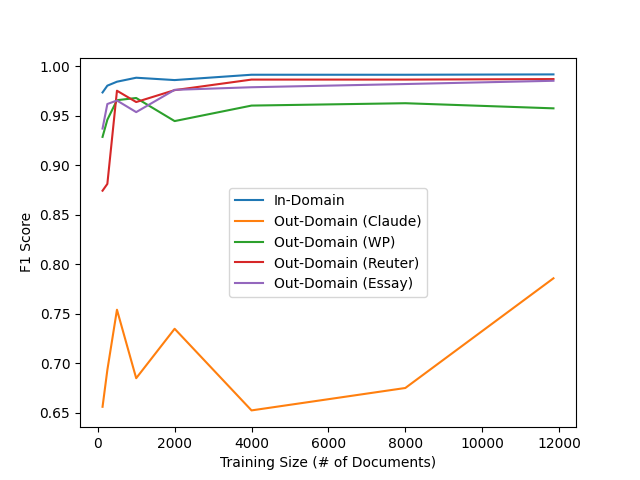
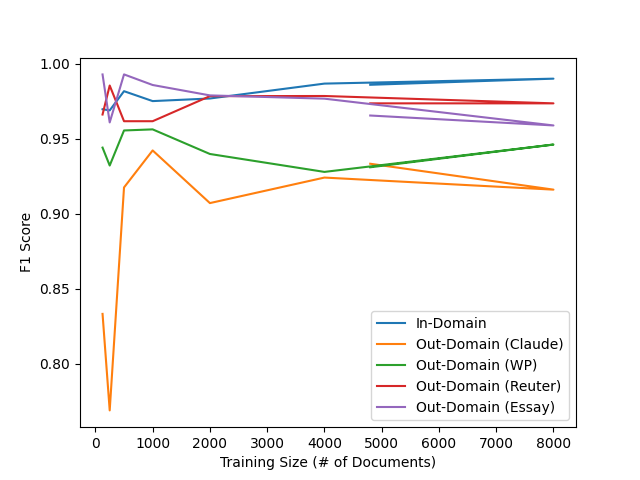
Updating model

diff --git a/run.py b/run.py
@@ -328,7 +328,8 @@ if __name__ == "__main__":
                     f"In-Domain ({domain})",
                     *train_fn(
                         data,
-                        indices_dict[f"gpt_train"] + indices_dict[f"human_train"],
+                        indices_dict[f"gpt_{domain}_train"]
+                        + indices_dict[f"human_{domain}_train"],
                         indices_dict[f"gpt_{domain}_test"]
                         + indices_dict[f"human_{domain}_test"],
                         domain,
@@ -482,9 +483,12 @@ if __name__ == "__main__":
 
     if args.ghostbuster_other_eval:
         data, mu, sigma = normalize(
-            get_featurized_data(best_features_map["best_features_three"]),
+            get_featurized_data(
+                best_features_map["best_features_three"], gpt_only=True
+            ),
             ret_mu_sigma=True,
         )
+
         model = LogisticRegression()
         model.fit(
             data[indices_dict["gpt_train"] + indices_dict["human_train"]],
@@ -507,23 +511,13 @@ if __name__ == "__main__":
         )
 
         other_datasets = [
-            # Dataset("normal", "data/other/ets"),
             Dataset("normal", "data/other/lang8"),
             Dataset("normal", "data/other/pelic"),
             Dataset("normal", "data/other/gptzero/gpt"),
             Dataset("normal", "data/other/gptzero/human"),
         ]
 
-        def evaluate_on_dataset(
-            model,
-            best_features,
-            curr_labels,
-            generate_dataset_fn,
-            dataset_name,
-            train=False,
-        ):
-            t_data = generate_dataset_fn(t_featurize, verbose=True)
-
+        def get_data(generate_dataset_fn, best_features):
             davinci, ada, trigram, unigram = get_all_logprobs(
                 generate_dataset_fn,
                 trigram=trigram_model,
@@ -537,10 +531,31 @@ if __name__ == "__main__":
             }
             exp_featurize = get_exp_featurize(best_features, vector_map)
             exp_data = generate_dataset_fn(exp_featurize)
+            return exp_data
 
-            curr_data = normalize(
-                np.concatenate([t_data, exp_data], axis=1), mu=mu, sigma=sigma
+        def evaluate_on_dataset(
+            model,
+            best_features,
+            curr_labels,
+            generate_dataset_fn,
+            dataset_name,
+            train=False,
+            to_normalize=True,
+        ):
+            data, mu, sigma = normalize(
+                get_featurized_data(best_features, gpt_only=True),
+                ret_mu_sigma=True,
             )
+
+            t_data = generate_dataset_fn(t_featurize, verbose=True)
+            exp_data = get_data(generate_dataset_fn, best_features)
+
+            if to_normalize:
+                curr_data = normalize(
+                    np.concatenate([t_data, exp_data], axis=1), mu=mu, sigma=sigma
+                )
+            else:
+                curr_data = np.concatenate([t_data, exp_data], axis=1)
 
             if train:
                 indices = np.arange(len(curr_data))
@@ -564,6 +579,7 @@ if __name__ == "__main__":
                     axis=0,
                 )
 
+                model = LogisticRegression()
                 model.fit(curr_train_data, curr_train_labels)
 
                 probs = model.predict_proba(curr_data[test_indices])[:, 1]
@@ -596,6 +612,26 @@ if __name__ == "__main__":
                 dataset,
             )
 
+            exp_data = get_data(gen_fn, ["davinci-logprobs s-avg"])
+
+            model_p = LogisticRegression()
+            model_p.fit(
+                exp_to_data["davinci-logprobs s-avg"][
+                    indices_dict["gpt_train"] + indices_dict["human_train"]
+                ],
+                labels[indices_dict["gpt_train"] + indices_dict["human_train"]],
+            )
+
+            probs = model_p.predict_proba(exp_data)[:, 1]
+
+            results_table.append(
+                [
+                    "Perplexity Only",
+                    f"Out-Domain (lang8)",
+                    *get_scores(curr_labels, probs),
+                ]
+            )
+
             # Evaluate roberta
             roberta_test = RobertaDataset(
                 gen_fn(lambda file: open(file).read()),
@@ -616,14 +652,12 @@ if __name__ == "__main__":
                     roberta_probs.append(
                         float(F.softmax(outputs.logits, dim=1)[0][1].item())
                     )
-            
+
             results_table.append(
                 [
                     "RoBERTa",
                     f"Out-Domain ({dataset})",
-                    *get_scores(
-                        gen_fn(lambda _: 0), np.array(roberta_probs), calibrated=True
-                    ),
+                    *get_scores(gen_fn(lambda _: 0), np.array(roberta_probs)),
                 ]
             )
 
@@ -661,6 +695,26 @@ if __name__ == "__main__":
             train=True,
         )
 
+        exp_data = get_data(gen_ets, ["davinci-logprobs s-avg"])
+
+        model = LogisticRegression()
+        model.fit(
+            exp_to_data["davinci-logprobs s-avg"][
+                indices_dict["gpt_train"] + indices_dict["human_train"]
+            ],
+            labels[indices_dict["gpt_train"] + indices_dict["human_train"]],
+        )
+
+        probs = model.predict_proba(exp_data)[:, 1]
+
+        results_table.append(
+            [
+                "Perplexity Only",
+                f"Out-Domain (ets)",
+                *get_scores(curr_labels, probs),
+            ]
+        )
+
         roberta_test = RobertaDataset(
             gen_ets(lambda file: open(file).read()),
             gen_ets(lambda _: 0),
@@ -683,9 +737,7 @@ if __name__ == "__main__":
             [
                 "RoBERTa",
                 f"Out-Domain (ets)",
-                *get_scores(
-                    gen_ets(lambda _: 0), np.array(roberta_probs), calibrated=True
-                ),
+                *get_scores(gen_ets(lambda _: 0), np.array(roberta_probs)),
             ]
         )
 

diff --git a/train.py b/train.py
@@ -16,11 +16,11 @@ from utils.symbolic import generate_symbolic_data
 from utils.load import get_generate_dataset, Dataset
 
 
-with open("results/best_features_four.txt") as f:
+with open("results/best_features_three.txt") as f:
     best_features = f.read().strip().split("\n")
 
 print("Loading trigram model...")
-trigram_model = pickle.load(open("trigram_model.pkl", "rb"), pickle.HIGHEST_PROTOCOL)
+trigram_model = pickle.load(open("model/trigram_model.pkl", "rb"), pickle.HIGHEST_PROTOCOL)
 tokenizer = tiktoken.encoding_for_model("davinci").encode
 
 wp_dataset = [
